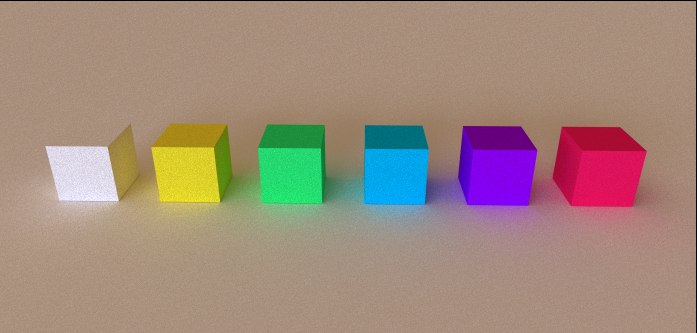
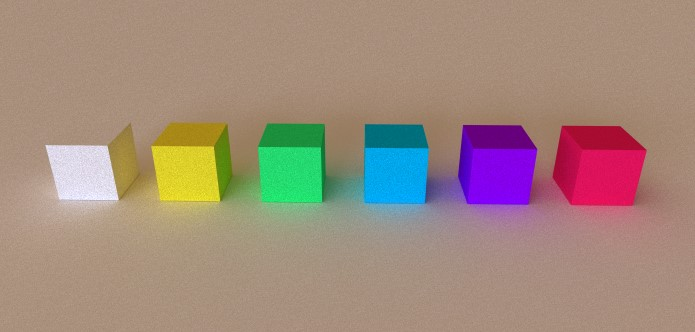
readme

diff --git a/readme.md b/readme.md
@@ -93,7 +93,5 @@ Environment settings:
 
 ## Materials
 ### Diffuse (Lambertian)
-![](output/lambertian_samples/diffuse.jpg)
-
-	
+<img align="left" width="400" src="output/lambertian_samples/diffuse.jpg">
 	
